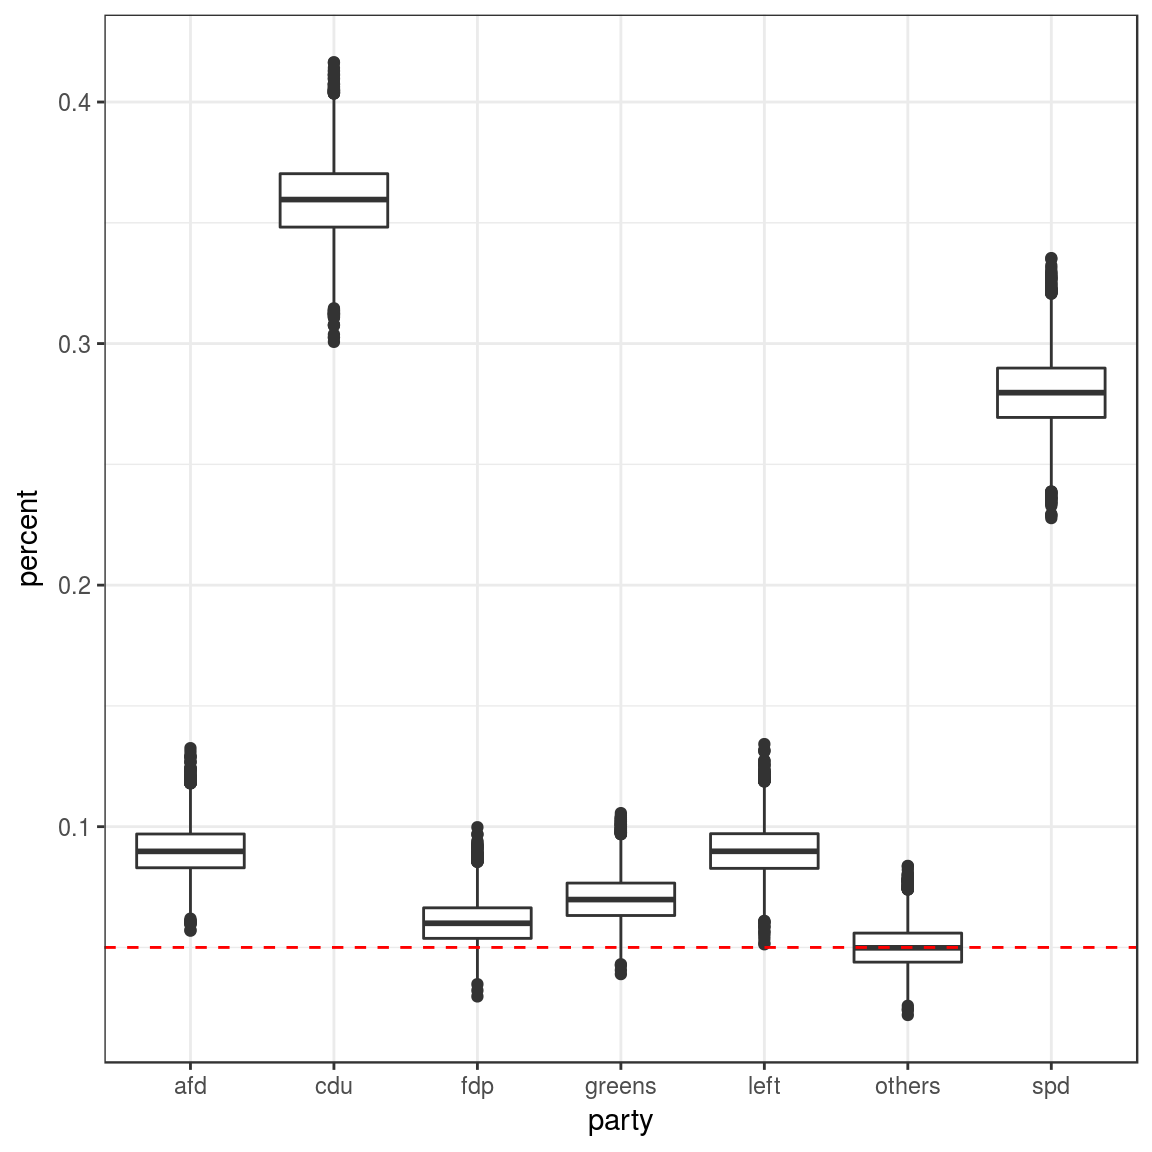
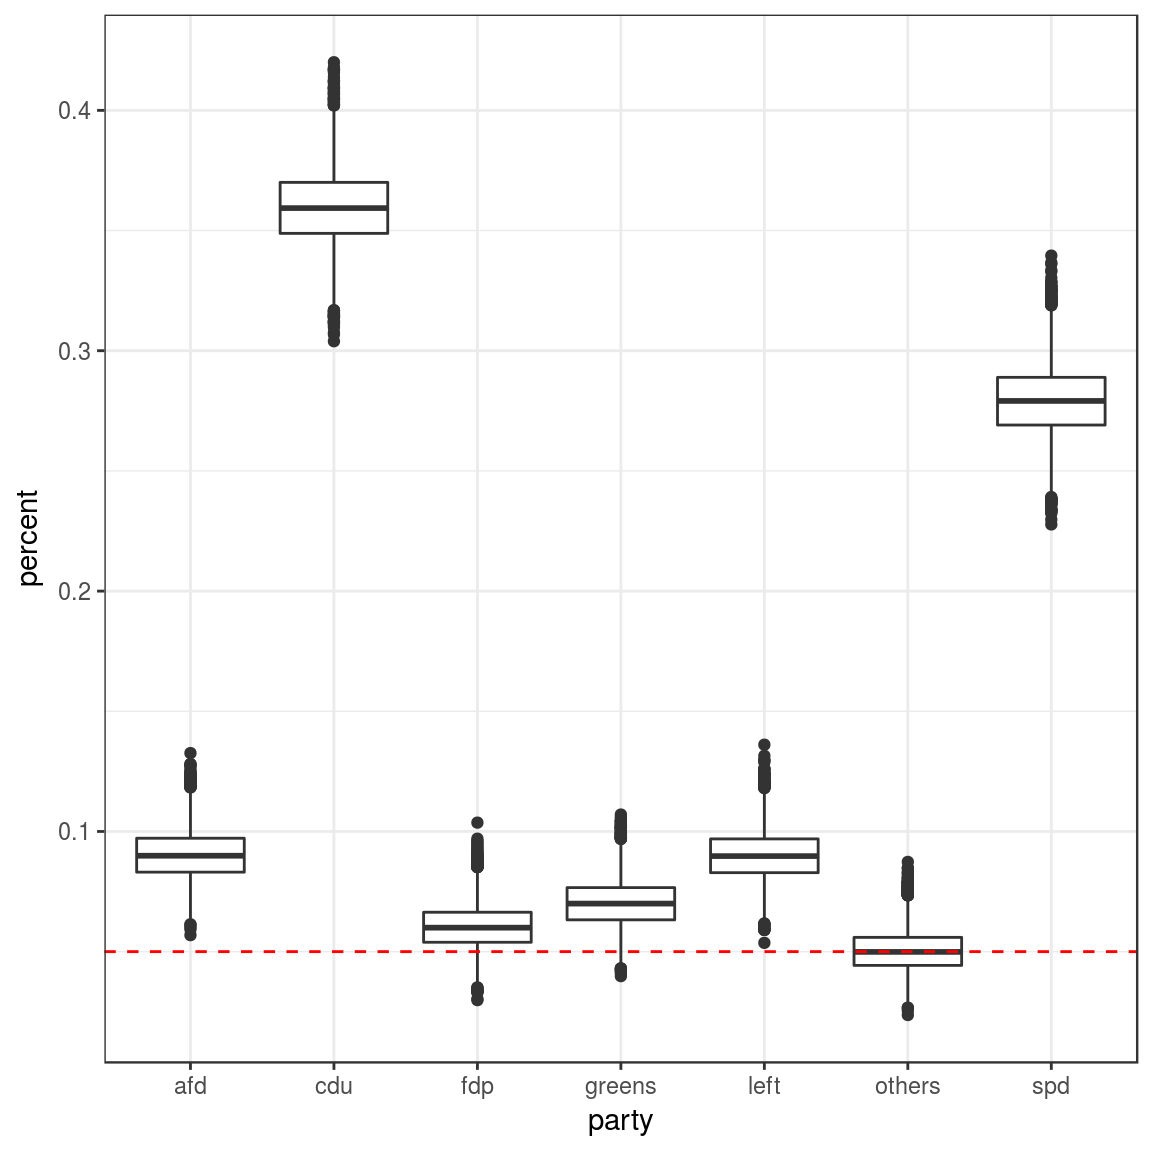
HP updates

diff --git a/docs/articles/workflow.html b/docs/articles/workflow.html
@@ -175,16 +175,16 @@
 <pre><code>## # A tibble: 10 x 7
 ##      cdu   spd greens    fdp   left   afd others
 ##    &lt;dbl&gt; &lt;dbl&gt;  &lt;dbl&gt;  &lt;dbl&gt;  &lt;dbl&gt; &lt;dbl&gt;  &lt;dbl&gt;
-##  1 0.321 0.175 0.108  0.0852 0.0957 0.150 0.0645
-##  2 0.348 0.183 0.107  0.0746 0.105  0.139 0.0431
-##  3 0.331 0.187 0.119  0.0835 0.0955 0.131 0.0536
-##  4 0.360 0.182 0.0973 0.0776 0.0953 0.130 0.0574
-##  5 0.323 0.207 0.119  0.0761 0.104  0.126 0.0454
-##  6 0.326 0.184 0.125  0.0815 0.101  0.136 0.0463
-##  7 0.322 0.202 0.122  0.0825 0.103  0.118 0.0508
-##  8 0.313 0.185 0.127  0.0872 0.116  0.132 0.0412
-##  9 0.326 0.186 0.126  0.0830 0.106  0.130 0.0436
-## 10 0.334 0.195 0.119  0.0778 0.104  0.124 0.0458</code></pre>
+##  1 0.336 0.184  0.127 0.0816 0.0929 0.124 0.0542
+##  2 0.318 0.203  0.116 0.0799 0.100  0.132 0.0509
+##  3 0.333 0.200  0.124 0.0730 0.0993 0.127 0.0434
+##  4 0.325 0.175  0.132 0.0835 0.0974 0.130 0.0574
+##  5 0.329 0.192  0.119 0.0806 0.108  0.127 0.0441
+##  6 0.315 0.200  0.141 0.0842 0.0908 0.118 0.0508
+##  7 0.326 0.188  0.120 0.0851 0.106  0.125 0.0504
+##  8 0.339 0.176  0.105 0.0834 0.110  0.134 0.0510
+##  9 0.328 0.187  0.126 0.0849 0.105  0.127 0.0419
+## 10 0.339 0.186  0.113 0.0823 0.0925 0.143 0.0445</code></pre>
 </div>
 <div id="calculate-seat-distribution" class="section level2">
 <h2 class="hasAnchor">
@@ -208,18 +208,18 @@
 <pre><code>## # A tibble: 60 x 3
 ##      sim party  seats
 ##    &lt;int&gt; &lt;chr&gt;  &lt;int&gt;
-##  1     1 cdu      206
-##  2     1 spd      112
-##  3     1 greens    69
-##  4     1 fdp       54
-##  5     1 left      61
-##  6     1 afd       96
-##  7     2 cdu      217
-##  8     2 spd      114
-##  9     2 greens    67
-## 10     2 fdp       47
+##  1     1 cdu      213
+##  2     1 spd      116
+##  3     1 greens    80
+##  4     1 fdp       52
+##  5     1 left      59
+##  6     1 afd       78
+##  7     2 cdu      201
+##  8     2 spd      128
+##  9     2 greens    73
+## 10     2 fdp       50
 ## # ... with 50 more rows</code></pre>
-<p>In the above example, given the latest survey, CDU/CSU would have 206 seats in the first simulation, 217 seats in the second simulation, etc.</p>
+<p>In the above example, given the latest survey, CDU/CSU would have 213 seats in the first simulation, 201 seats in the second simulation, etc.</p>
 </div>
 <div id="calculate-majorities" class="section level2">
 <h2 class="hasAnchor">

diff --git a/docs/articles/diagnostic.html b/docs/articles/diagnostic.html
@@ -133,10 +133,10 @@
 ##   &lt;chr&gt;      &lt;dbl&gt;
 ## 1 afd        1.00 
 ## 2 cdu        1.00 
-## 3 fdp        0.870
-## 4 greens     0.986
-## 5 left       1.000
-## 6 others     0.498
+## 3 fdp        0.873
+## 4 greens     0.988
+## 5 left       1.00 
+## 6 others     0.494
 ## 7 spd        1.00</code></pre>
 </div>
   </div>
